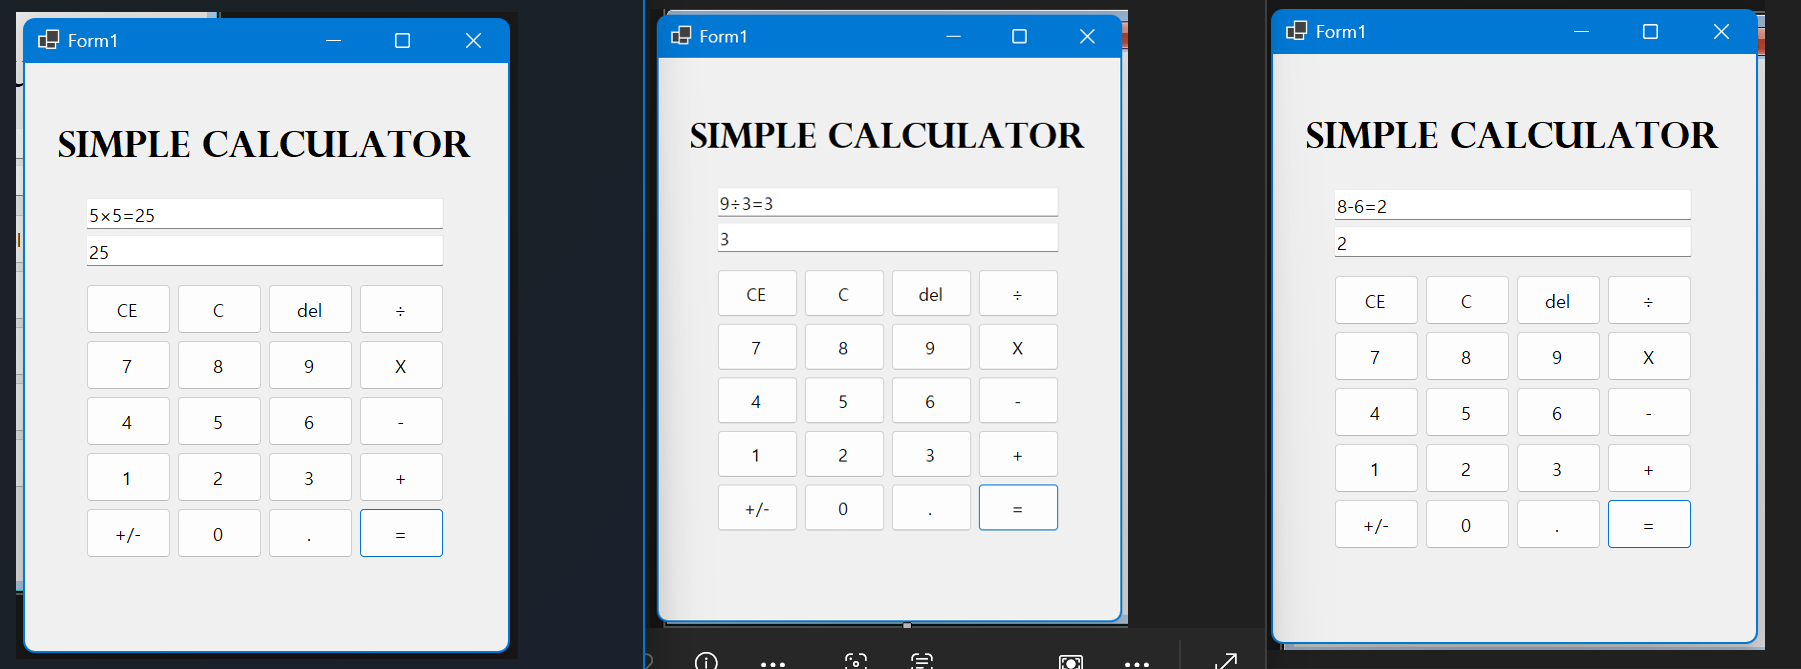
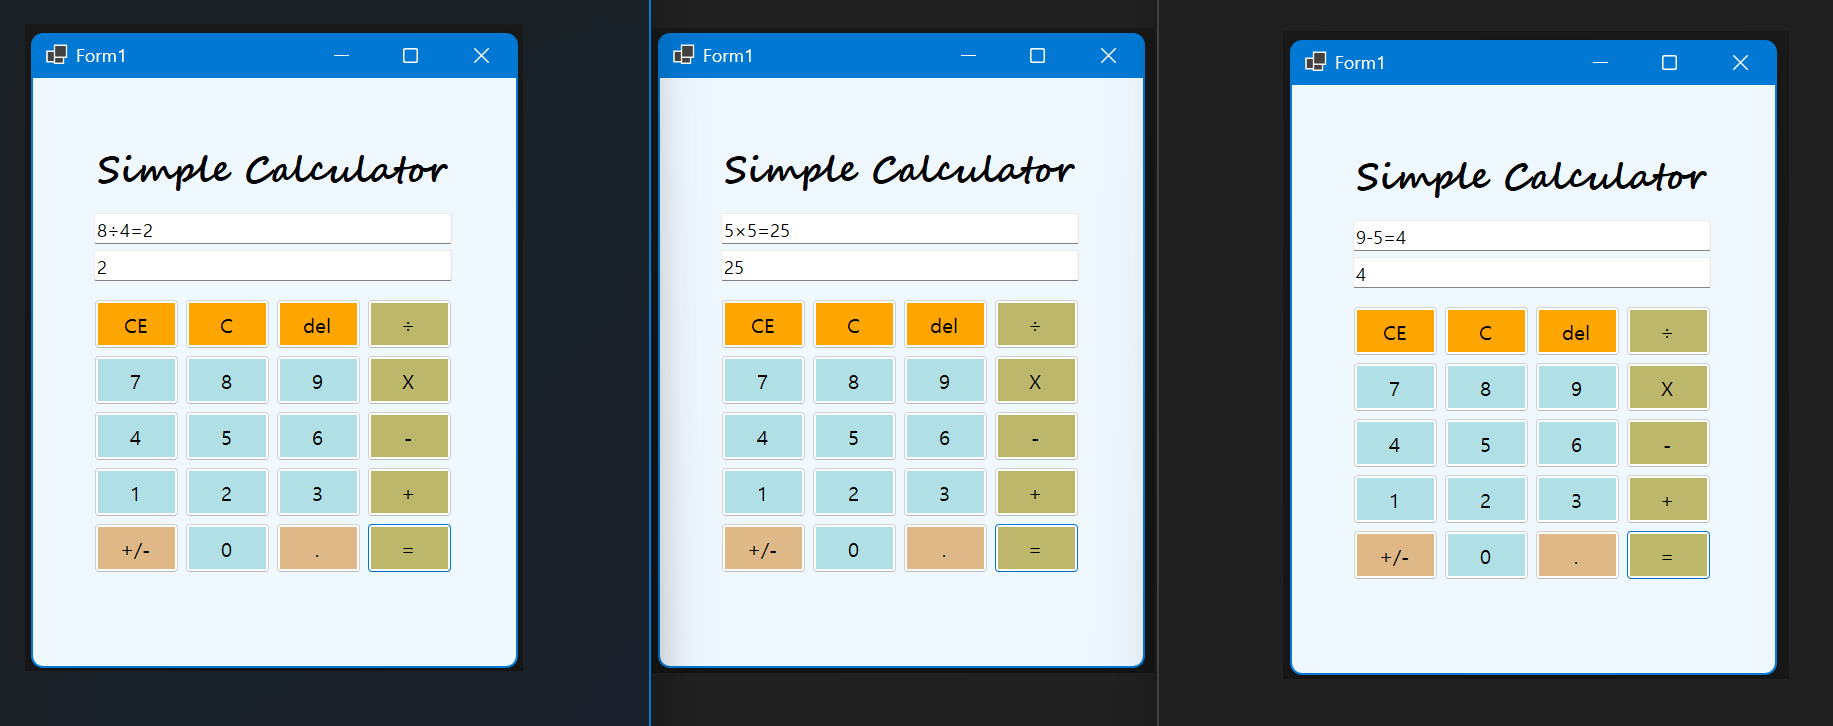
과제3 코딩과 테스트 완료 del, C, CE 기능을 각각 구현함. 추가로 UI를 수정함.

diff --git a/Form1.Designer.cs b/Form1.Designer.cs
@@ -56,10 +56,10 @@
             // lbl1
             // 
             lbl1.AutoSize = true;
-            lbl1.Font = new Font("Perpetua Titling MT", 18F, FontStyle.Bold, GraphicsUnit.Point, 0);
-            lbl1.Location = new Point(25, 59);
+            lbl1.Font = new Font("Segoe Script", 18F, FontStyle.Bold, GraphicsUnit.Point, 0);
+            lbl1.Location = new Point(55, 62);
             lbl1.Name = "lbl1";
-            lbl1.Size = new Size(432, 43);
+            lbl1.Size = new Size(375, 60);
             lbl1.TabIndex = 0;
             lbl1.Text = "Simple Calculator";
             // 
@@ -80,206 +80,248 @@
             // 
             // btn_CE
             // 
+            btn_CE.BackColor = Color.Orange;
+            btn_CE.Font = new Font("맑은 고딕", 10F);
             btn_CE.Location = new Point(61, 221);
             btn_CE.Name = "btn_CE";
             btn_CE.Size = new Size(85, 50);
             btn_CE.TabIndex = 3;
             btn_CE.Text = "CE";
-            btn_CE.UseVisualStyleBackColor = true;
+            btn_CE.UseVisualStyleBackColor = false;
+            btn_CE.Click += btn_CE_Click;
             // 
             // btn_C
             // 
+            btn_C.BackColor = Color.Orange;
+            btn_C.Font = new Font("맑은 고딕", 10F);
             btn_C.Location = new Point(152, 221);
             btn_C.Name = "btn_C";
             btn_C.Size = new Size(85, 50);
             btn_C.TabIndex = 4;
             btn_C.Text = "C";
-            btn_C.UseVisualStyleBackColor = true;
+            btn_C.UseVisualStyleBackColor = false;
             btn_C.Click += button2_Click;
             // 
             // btn_del
             // 
+            btn_del.BackColor = Color.Orange;
+            btn_del.Font = new Font("맑은 고딕", 10F);
             btn_del.Location = new Point(243, 221);
             btn_del.Name = "btn_del";
             btn_del.Size = new Size(85, 50);
             btn_del.TabIndex = 6;
             btn_del.Text = "del";
-            btn_del.UseVisualStyleBackColor = true;
+            btn_del.UseVisualStyleBackColor = false;
             btn_del.Click += button3_Click;
             // 
             // btn_division
             // 
+            btn_division.BackColor = Color.DarkKhaki;
+            btn_division.Font = new Font("맑은 고딕", 10F);
             btn_division.Location = new Point(334, 221);
             btn_division.Name = "btn_division";
             btn_division.Size = new Size(85, 50);
             btn_division.TabIndex = 5;
             btn_division.Text = "÷";
-            btn_division.UseVisualStyleBackColor = true;
+            btn_division.UseVisualStyleBackColor = false;
             btn_division.Click += btn_division_Click;
             // 
             // btn_9
             // 
+            btn_9.BackColor = Color.PowderBlue;
+            btn_9.Font = new Font("맑은 고딕", 10F);
             btn_9.Location = new Point(243, 277);
             btn_9.Name = "btn_9";
             btn_9.Size = new Size(85, 50);
             btn_9.TabIndex = 10;
             btn_9.Text = "9";
-            btn_9.UseVisualStyleBackColor = true;
+            btn_9.UseVisualStyleBackColor = false;
             btn_9.Click += Number_Click;
             // 
             // btn_times
             // 
+            btn_times.BackColor = Color.DarkKhaki;
+            btn_times.Font = new Font("맑은 고딕", 10F);
             btn_times.Location = new Point(334, 277);
             btn_times.Name = "btn_times";
             btn_times.Size = new Size(85, 50);
             btn_times.TabIndex = 9;
             btn_times.Text = "X";
-            btn_times.UseVisualStyleBackColor = true;
+            btn_times.UseVisualStyleBackColor = false;
             btn_times.Click += btn_times_Click;
             // 
             // btn_8
             // 
+            btn_8.BackColor = Color.PowderBlue;
+            btn_8.Font = new Font("맑은 고딕", 10F);
             btn_8.Location = new Point(152, 277);
             btn_8.Name = "btn_8";
             btn_8.Size = new Size(85, 50);
             btn_8.TabIndex = 8;
             btn_8.Text = "8";
-            btn_8.UseVisualStyleBackColor = true;
+            btn_8.UseVisualStyleBackColor = false;
             btn_8.Click += Number_Click;
             // 
             // btn_7
             // 
+            btn_7.BackColor = Color.PowderBlue;
+            btn_7.Font = new Font("맑은 고딕", 10F);
             btn_7.Location = new Point(61, 277);
             btn_7.Name = "btn_7";
             btn_7.Size = new Size(85, 50);
             btn_7.TabIndex = 7;
             btn_7.Text = "7";
-            btn_7.UseVisualStyleBackColor = true;
+            btn_7.UseVisualStyleBackColor = false;
             btn_7.Click += Number_Click;
             // 
             // btn_6
             // 
+            btn_6.BackColor = Color.PowderBlue;
+            btn_6.Font = new Font("맑은 고딕", 10F);
             btn_6.ImageAlign = ContentAlignment.MiddleRight;
             btn_6.Location = new Point(243, 333);
             btn_6.Name = "btn_6";
             btn_6.Size = new Size(85, 50);
             btn_6.TabIndex = 14;
             btn_6.Text = "6";
-            btn_6.UseVisualStyleBackColor = true;
+            btn_6.UseVisualStyleBackColor = false;
             btn_6.Click += Number_Click;
             // 
             // btn_minus
             // 
+            btn_minus.BackColor = Color.DarkKhaki;
+            btn_minus.Font = new Font("맑은 고딕", 10F);
             btn_minus.Location = new Point(334, 333);
             btn_minus.Name = "btn_minus";
             btn_minus.Size = new Size(85, 50);
             btn_minus.TabIndex = 13;
             btn_minus.Text = "-";
-            btn_minus.UseVisualStyleBackColor = true;
+            btn_minus.UseVisualStyleBackColor = false;
             btn_minus.Click += btn_minus_Click;
             // 
             // btn_5
             // 
+            btn_5.BackColor = Color.PowderBlue;
+            btn_5.Font = new Font("맑은 고딕", 10F);
             btn_5.Location = new Point(152, 333);
             btn_5.Name = "btn_5";
             btn_5.Size = new Size(85, 50);
             btn_5.TabIndex = 12;
             btn_5.Text = "5";
-            btn_5.UseVisualStyleBackColor = true;
+            btn_5.UseVisualStyleBackColor = false;
             btn_5.Click += Number_Click;
             // 
             // btn_4
             // 
+            btn_4.BackColor = Color.PowderBlue;
+            btn_4.Font = new Font("맑은 고딕", 10F);
             btn_4.Location = new Point(61, 333);
             btn_4.Name = "btn_4";
             btn_4.Size = new Size(85, 50);
             btn_4.TabIndex = 11;
             btn_4.Text = "4";
-            btn_4.UseVisualStyleBackColor = true;
+            btn_4.UseVisualStyleBackColor = false;
             btn_4.Click += Number_Click;
             // 
             // btn_3
             // 
+            btn_3.BackColor = Color.PowderBlue;
+            btn_3.Font = new Font("맑은 고딕", 10F);
             btn_3.Location = new Point(243, 389);
             btn_3.Name = "btn_3";
             btn_3.Size = new Size(85, 50);
             btn_3.TabIndex = 18;
             btn_3.Text = "3";
-            btn_3.UseVisualStyleBackColor = true;
+            btn_3.UseVisualStyleBackColor = false;
             btn_3.Click += Number_Click;
             // 
             // btn_plus
             // 
+            btn_plus.BackColor = Color.DarkKhaki;
+            btn_plus.Font = new Font("맑은 고딕", 10F);
             btn_plus.Location = new Point(334, 389);
             btn_plus.Name = "btn_plus";
             btn_plus.Size = new Size(85, 50);
             btn_plus.TabIndex = 17;
             btn_plus.Text = "+";
-            btn_plus.UseVisualStyleBackColor = true;
+            btn_plus.UseVisualStyleBackColor = false;
             btn_plus.Click += btn_plus_Click;
             // 
             // btn_2
             // 
+            btn_2.BackColor = Color.PowderBlue;
+            btn_2.Font = new Font("맑은 고딕", 10F);
             btn_2.Location = new Point(152, 389);
             btn_2.Name = "btn_2";
             btn_2.Size = new Size(85, 50);
             btn_2.TabIndex = 16;
             btn_2.Text = "2";
-            btn_2.UseVisualStyleBackColor = true;
+            btn_2.UseVisualStyleBackColor = false;
             btn_2.Click += Number_Click;
             // 
             // btn_1
             // 
+            btn_1.BackColor = Color.PowderBlue;
+            btn_1.Font = new Font("맑은 고딕", 10F);
             btn_1.Location = new Point(61, 389);
             btn_1.Name = "btn_1";
             btn_1.Size = new Size(85, 50);
             btn_1.TabIndex = 15;
             btn_1.Text = "1";
-            btn_1.UseVisualStyleBackColor = true;
+            btn_1.UseVisualStyleBackColor = false;
             btn_1.Click += Number_Click;
             // 
             // btn_dot
             // 
+            btn_dot.BackColor = Color.BurlyWood;
+            btn_dot.Font = new Font("맑은 고딕", 10F);
             btn_dot.Location = new Point(243, 445);
             btn_dot.Name = "btn_dot";
             btn_dot.Size = new Size(85, 50);
             btn_dot.TabIndex = 22;
             btn_dot.Text = ".";
-            btn_dot.UseVisualStyleBackColor = true;
+            btn_dot.UseVisualStyleBackColor = false;
             // 
             // btn_equal
             // 
+            btn_equal.BackColor = Color.DarkKhaki;
+            btn_equal.Font = new Font("맑은 고딕", 10F);
             btn_equal.Location = new Point(334, 445);
             btn_equal.Name = "btn_equal";
             btn_equal.Size = new Size(85, 50);
             btn_equal.TabIndex = 21;
             btn_equal.Text = "=";
-            btn_equal.UseVisualStyleBackColor = true;
+            btn_equal.UseVisualStyleBackColor = false;
             btn_equal.Click += btn_equal_Click;
             // 
             // btn_0
             // 
+            btn_0.BackColor = Color.PowderBlue;
+            btn_0.Font = new Font("맑은 고딕", 10F);
             btn_0.Location = new Point(152, 445);
             btn_0.Name = "btn_0";
             btn_0.Size = new Size(85, 50);
             btn_0.TabIndex = 20;
             btn_0.Text = "0";
-            btn_0.UseVisualStyleBackColor = true;
+            btn_0.UseVisualStyleBackColor = false;
             btn_0.Click += Number_Click;
             // 
             // btn_pm
             // 
+            btn_pm.BackColor = Color.BurlyWood;
+            btn_pm.Font = new Font("맑은 고딕", 10F);
             btn_pm.Location = new Point(61, 445);
             btn_pm.Name = "btn_pm";
             btn_pm.Size = new Size(85, 50);
             btn_pm.TabIndex = 19;
             btn_pm.Text = "+/-";
-            btn_pm.UseVisualStyleBackColor = true;
+            btn_pm.UseVisualStyleBackColor = false;
             // 
             // Form1
             // 
             AutoScaleDimensions = new SizeF(10F, 25F);
             AutoScaleMode = AutoScaleMode.Font;
+            BackColor = Color.AliceBlue;
             ClientSize = new Size(483, 588);
             Controls.Add(btn_dot);
             Controls.Add(btn_equal);
@@ -306,6 +348,7 @@
             Controls.Add(lbl1);
             Name = "Form1";
             Text = "Form1";
+            Load += Form1_Load;
             ResumeLayout(false);
             PerformLayout();
         }

diff --git a/Form1.cs b/Form1.cs
@@ -45,12 +45,31 @@ namespace SimpleCalculator
 
         private void button2_Click(object sender, EventArgs e)
         {
+            txtb_mscal.Text = "0";
+            txtb_cal.Text = "";
 
+            num1 = 0;
+            op = "";
+            expression = "";
+            isNewNumber = false;
         }
 
         private void button3_Click(object sender, EventArgs e)
         {
+            if (txtb_mscal.Text.Length > 1)
+            {
+                txtb_mscal.Text =
+                    txtb_mscal.Text.Substring(0, txtb_mscal.Text.Length - 1);
+            }
+            else
+            {
+                txtb_mscal.Text = "0";
+            }
 
+            if (string.IsNullOrEmpty(op))
+                txtb_cal.Text = txtb_mscal.Text;
+            else
+                txtb_cal.Text = expression + txtb_mscal.Text;
         }
 
         private void button12_Click(object sender, EventArgs e)
@@ -136,6 +155,21 @@ namespace SimpleCalculator
             txtb_cal.Text = expression;
 
             isNewNumber = true;
+        }
+
+        private void btn_CE_Click(object sender, EventArgs e)
+        {
+            txtb_mscal.Text = "0";
+
+            if (string.IsNullOrEmpty(op))
+                txtb_cal.Text = "0";
+            else
+                txtb_cal.Text = expression;
+        }
+
+        private void Form1_Load(object sender, EventArgs e)
+        {
+
         }
     }
 }

diff --git a/README.md b/README.md
@@ -35,13 +35,13 @@
 
 
 
-## 실행 화면 (과제1)
+## 실행 화면 (과제2)
 - 과제2 코드의 실행 스크린샷
 
 ![과제2 실행화면](img/task2.png)
 
 - 과제 내용
-	- 나머지 사칙연산(빼기, 곱하기, 나누기)을 구현함.
+	- 나머지 사칙연산(빼기, 곱하기, 나누기)을 각 버튼에 구현함.
 
 - 구현 내용과 기능 설명
 	- (=) 클릭 시 switch문으로 저장된 연산자(op)에 따라 case를 분기하여 덧셈, 뺄셈, 곱셈, 나눗셈 중 해당 연산을 수행하고 결과를 계산하도록 구현함.
@@ -52,21 +52,24 @@
 
 
 
-## 실행 화면 (과제1)
+## 실행 화면 (과제3)
 - 과제3 코드의 실행 스크린샷
 
 ![과제3 실행화면](img/task3.png)
+첫 번째 이미지에서 del을 누르면 두 번째 이미지처럼, C를 누르면 세 번째 이미지처럼 됨
 
 - 과제 내용
-	-
+	- del, C, CE 기능을 각 버튼에 구현함.
 
 - 구현 내용과 기능 설명
-	-
+	- btn_del, del 기능은 현재 입력된 값의 마지막 한 글자를 Substring으로 삭제하고, 결과를 다시 Text에 반영하며 변경된 값을 텍스트박스들에 갱신되도록 구현함.
+	- btn_CE, CE 기능은 현재 텍스트박스의 값을 "0"으로 초기화하고, 연산 상태에 따라 텍스트박스 내의 입력도 초기 상태 또는 기존 수식만 남도록 갱신되도록 구현함.
+	- btn_C, C 기능은 txtb_mscal과 txtb_cal을 모두 초기화하고, 저장된 값(num1), 연산자(op), 수식(expression) 등 모든 상태 변수를 초기 상태로 되돌리도록 구현함.
 
 
 
 
-## 실행 화면 (과제1)
+## 실행 화면 (과제4)
 - 과제4 코드의 실행 스크린샷
 
 ![과제4 실행화면](img/task4.png)
